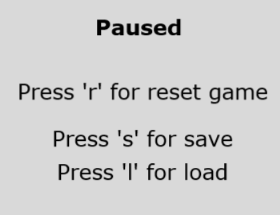
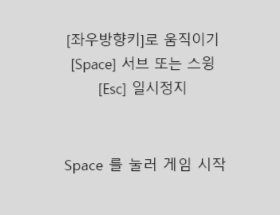
메뉴 수정

diff --git a/ball.py b/ball.py
@@ -20,7 +20,7 @@ class Ball:
         if Ball.shadowImage is None:
             Ball.shadowImage = load_image(".\\data\\ball_shadow.png")
         self.x, self.y, self.x_velocity, self.y_velocity = x, y, x_velocity, y_velocity
-        self.frame, self.height, self.height_velocity = 0, 20, 20
+        self.frame, self.height, self.height_velocity = 0, 0.5, 0.25
         self.ground_hit_point = None
         self.deleted = False
         game_world.add_collision_pair("player:ball", None, self)
@@ -42,11 +42,11 @@ class Ball:
             frame_x, frame_y, frame_width, frame_height, self.x, self.y + self.height
         )
         self.shadowImage.draw(self.x, self.y)
-        self.height += self.height_velocity * game_framework.frame_time
-        self.height_velocity -= 0.5
+        self.height += self.height_velocity
+        self.height_velocity -= 0.001
         if self.height < -2:
             self.ground_hit_point = self.x
-            self.height_velocity = 50
+            self.height_velocity = 0.25
         draw_rectangle(*self.get_bb())
 
     def get_bb(self):
@@ -61,12 +61,21 @@ class Ball:
         pass
 
     def __getstate__(self):
-        state = {'x': self.x, 'y': self.y, 'height': self.height,'height_velocity': self.height_velocity,'ground_hit_point': self.ground_hit_point,'x_velocity': self.x_velocity,'x_velocity': self.x_velocity}
+        state = {
+            "x": self.x,
+            "y": self.y,
+            "height": self.height,
+            "height_velocity": self.height_velocity,
+            "ground_hit_point": self.ground_hit_point,
+            "x_velocity": self.x_velocity,
+            "x_velocity": self.x_velocity,
+        }
         return state
+
     def __setstate__(self, state):
         self.__init__()
         self.__dict__.update(state)
-        
+
     def update(self):
         self.x += self.x_velocity * game_framework.frame_time
         self.y += self.y_velocity * game_framework.frame_time

diff --git a/menu_mode.py b/menu_mode.py
@@ -8,22 +8,27 @@ import player
 import enemy
 import grass
 
+
 def init():
     global image
-    image = load_image('.\\data\\menu_image.png')
-    
+    image = load_image(".\\data\\menu_image.png")
+
+
 def finish():
     global image
     del image
+
 
 def draw():
     global image
     image.draw(175, 280)
     update_canvas()
 
+
 def update():
     pass
-    
+
+
 def handle_events():
     events = get_events()
     for event in events:
@@ -34,12 +39,13 @@ def handle_events():
                 case pico2d.SDLK_ESCAPE:
                     game_framework.pop_mode()
                 case pico2d.SDLK_r:
-                    score.score[0], score.score[1] = 0,0
-                    score.player.x=175
-                    score.enemy.x=175
+                    score.score[0], score.score[1] = 0, 0
+                    score.player.x = 175
+                    score.enemy.x = 175
                     score.player_turn = True
-                    if score.ball.deleted==False:
+                    if score.ball.deleted == False:
                         game_world.remove_object(score.ball)
-                        score.ball.deleted=True
+                        score.ball.deleted = True
                     game_framework.pop_mode()
-                
+                case pico2d.SDLK_SPACE:
+                    game_framework.pop_mode()

diff --git a/play_mode.py b/play_mode.py
@@ -7,6 +7,7 @@ import game_world
 import game_framework
 import score
 import menu_mode
+
 map_width, map_height = 350, 560
 
 
@@ -40,6 +41,8 @@ def init():
     game_world.add_collision_pair("enemy:ball", score.enemy, None)
     score.ball = Ball
     score.ball.deleted = True
+    draw()
+    game_framework.push_mode(menu_mode)
 
 
 def finish():
@@ -50,22 +53,16 @@ def update():
     game_world.update()
     game_world.handle_collisions()
 
-def load_saved_world():
-    score.player, score.enemy, score.ball = None, None, None
-    game_world.load()
-    for o in game_world.all_objects():
-        if isinstance(o, player):
-            score.player = o
-        elif isinstance(o, enemy):
-            score.enemy = o
-        if score.boy and score.background:
-            break
+
 def draw():
     clear_canvas()
     game_world.render()
     update_canvas()
 
+
 def pause():
     pass
+
+
 def resume():
     pass

diff --git a/enemy.py b/enemy.py
@@ -395,8 +395,8 @@ class Enemy:
                         other.x_velocity = -other.x_velocity
                     other.x_velocity += (other.x - self.x) * 5
                     other.y_velocity = -other.y_velocity
-                    other.height = 20
-                    other.height_velocity = 20
+                    other.height = 0.5
+                    other.height_velocity = 0.25
                     self.hit_sound.play()
 
     def set_target_location(self, x=None, y=None):

diff --git a/player.py b/player.py
@@ -389,7 +389,7 @@ class Player:
                         other.x_velocity = -other.x_velocity
                     other.x_velocity += (other.x - self.x) * 5
                     other.y_velocity = -other.y_velocity
-                    other.height = 20
-                    other.height_velocity = 20
+                    other.height = 0.5
+                    other.height_velocity = 0.25
                     self.hit_sound.play()
                     self.hit_sound.set_volume(32)
